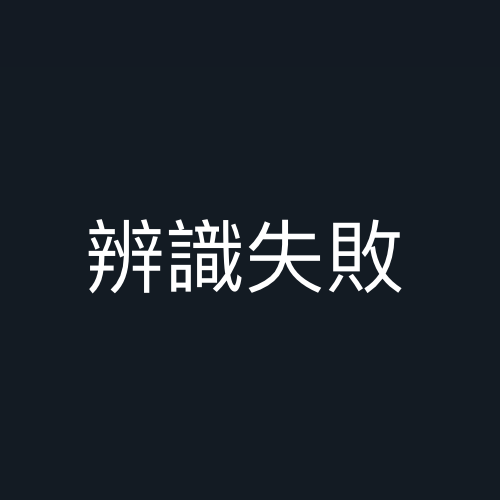
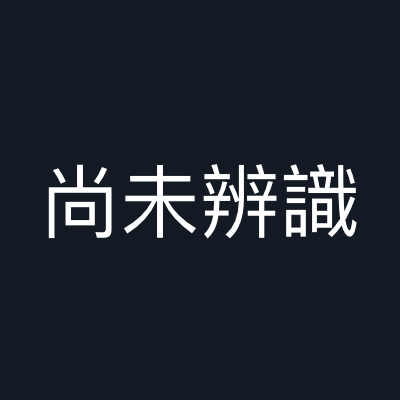
apply update

Changed region(s): [[0.12, 0.39, 0.9, 0.6]]

diff --git a/src/components/Apply/ApplyForm.js b/src/components/Apply/ApplyForm.js
@@ -4,7 +4,13 @@ import { withStyles } from '@material-ui/core/styles';
 import TextField from '@material-ui/core/TextField';
 import Myclass from './ApplyFormClass';
 import { Card, Button } from '@material-ui/core';
+
+import Dialog from "@material-ui/core/Dialog";
+import DialogActions from "@material-ui/core/DialogActions";
+import DialogTitle from "@material-ui/core/DialogTitle";
+
 import CameraIcon from '@material-ui/icons/CameraAltRounded';
+import noTrain from './noTrain.jpg';
 import { fetchPostStudent, fetchPostClassMember } from '../../api';
 import axios from 'axios';
 
@@ -13,13 +19,18 @@ import axios from 'axios';
 const IP = "http://localhost:8080";
 
 const styles = theme => ({
+    root:{
+        margin:'auto',
+        width:'40%',
+    },
     container: {
         color: 'white',
     },
-    card: {
+    photo: {
         width: '200px',
-        height: '260px',
-        margin: '40px auto'
+        height: '200px',
+        marginLeft: '38%',
+        marginTop: theme.spacing.unit * 10,
     },
     input: {
         outline: 'none',
@@ -68,6 +79,7 @@ class OutlinedTextFields extends React.Component {
         super(props);
         this.state = {
             class_id: null,
+            stu_img: noTrain,
             student_name: '',
             student_id: '',
             student_grade: '',
@@ -83,6 +95,7 @@ class OutlinedTextFields extends React.Component {
             errorMessage1: '',
             errorMessage2: '',
             imgUrl:'',
+            open: false,
         };
     }
     //https://medium.com/@ruthmpardee/passing-data-between-react-components-103ad82ebd17
@@ -140,10 +153,9 @@ class OutlinedTextFields extends React.Component {
                 this.setState({ error2: true, errorMessage2: '*此欄位必填' })
             }
         }
-
-
-
     };
+
+
 
     handleFocus = e => {
         this.setState({
@@ -208,14 +220,19 @@ class OutlinedTextFields extends React.Component {
             .catch((error) =>
                 console.error(error)
             );
+    };
 
+    handleClickOpen = () =>{
+        this.setState({ open: true });
+    };
 
+    handleClose = () => {
+        this.setState({ open: false });
     };
 
     componentDidUpdate() {
-
         console.log(this.state);
-    }
+    };
 
 
     render() {
@@ -224,14 +241,12 @@ class OutlinedTextFields extends React.Component {
 
         return (
             <form onSubmit={this.handleSubmit} className={classes.container} noValidate autoComplete="off">
-                <div>
-                    <Card className={classes.card} />
+                <div style={{width:'100%'}}> 
+                <img className={classes.photo} src={this.state.stu_img} alt="location" />
                     <Button className={classes.button} onClick={this.handleClick}>
                         Open Camera
                     <CameraIcon className={classes.rightIcon} />
                     </Button>
-
-
                     <div className={classes.train}>
                     <input type="file" name="file" ref="file"  id="contained-button-file" onChange={this.handleUpload} className={classes.input}/>
                     <label htmlFor="contained-button-file">
@@ -240,9 +255,6 @@ class OutlinedTextFields extends React.Component {
                         </Button>
                     </label>
                     </div>
-                    {/* <Button className={classes.button}>
-                        Train
-                    </Button> */}
                 </div>
                 <div className={classes.form}>
                     <div>
@@ -362,9 +374,18 @@ class OutlinedTextFields extends React.Component {
                         />
                     </div>
                 </div>
-                <Button type="submit" className={classes.button} style={{ width: 300, margin: '20px auto', }}>
+                <Button type="submit" className={classes.button} onClick={this.handleClickOpen} style={{ width: 300, margin: '20px auto', }}>
                     送出
                 </Button>
+                <Dialog className={classes.root}
+                    open={this.state.open}
+                    onClose={this.handleClose}
+                >
+                    <DialogTitle >已送出！</DialogTitle>
+                    <DialogActions>
+                        <Button style={{margin:'auto'}} onClick={this.handleClose} color="primary">確定</Button>
+                    </DialogActions>
+                </Dialog>
 
                 {/* <div>
                     <input id="myInput" />

diff --git a/src/components/Apply/ApplyDialog.js b/src/components/Apply/ApplyDialog.js
@@ -1,0 +1,105 @@
+import React from "react";
+import Button from "@material-ui/core/Button";
+import TextField from "@material-ui/core/TextField";
+import Dialog from "@material-ui/core/Dialog";
+import DialogActions from "@material-ui/core/DialogActions";
+import DialogContent from "@material-ui/core/DialogContent";
+import DialogTitle from "@material-ui/core/DialogTitle";
+import { withStyles } from '@material-ui/core/styles';
+
+const styles = theme => ({
+    root: {
+        width: '800px',
+        margin: 'auto',
+    },
+    container: {
+        width: '400px',
+        paddingLeft: '22%',
+    },
+    button:{
+        border:'white 1px solid',
+        float:'right',
+    },
+    textField: {
+        width: 220,
+        marginTop: theme.spacing.unit * 3,
+    },
+    formControl: {
+        minWidth: 120,
+        width: 220,
+        marginTop: theme.spacing.unit * 3,
+    },
+});
+
+class FormDialog extends React.Component {
+    state = {
+        open: false,
+    };
+
+    handleClickOpen = () => {
+        this.setState({ open: true });
+    };
+
+    handleClose = () => {
+        this.setState({ open: false });
+    };
+
+    render() {
+        const { classes } = this.props;
+        return (
+            <div>
+                <Button className={classes.button} onClick={this.handleClickOpen}>預約補課</Button>
+                <Dialog className={classes.root}
+                    open={this.state.open}
+                    onClose={this.handleClose}
+                    aria-labelledby="form-dialog-title"
+                >
+                    <DialogTitle id="form-dialog-title">新增預約資料</DialogTitle>
+                    <DialogContent>
+                        <form className={classes.container} noValidate autoComplete="off">
+                            <div>
+                                <TextField
+                                    id="outlined-name"
+                                    label="Name"
+                                    className={classes.textField}
+                                    value={this.state.student}
+                                    onChange={this.handleChange('')}
+                                    margin="normal"
+                                    variant="outlined"
+                                />
+                            </div>
+                            <div>
+                                <TextField
+                                    id="outlined-name"
+                                    label="id"
+                                    className={classes.textField}
+                                    value={this.state.id}
+                                    onChange={this.handleChange('')}
+                                    margin="normal"
+                                    variant="outlined"
+                                />
+                            </div>
+                            <div>
+                                <TextField
+                                    id="outlined-email-input"
+                                    label="subject"
+                                    className={classes.textField}
+                                    value={this.state.subject}
+                                    onChange={this.handleChange('')}
+                                    margin="normal"
+                                    variant="outlined"
+                                />
+                            </div>
+                        </form>
+                    </DialogContent>
+                    <DialogActions>
+                        <Button onClick={this.handleClose} color="primary">取消</Button>
+                        <Button onClick={this.handleSubmit} color="primary">確定預約</Button>
+                    </DialogActions>
+                </Dialog>
+            </div>
+        );
+    }
+}
+
+export default withStyles(styles)(FormDialog);
